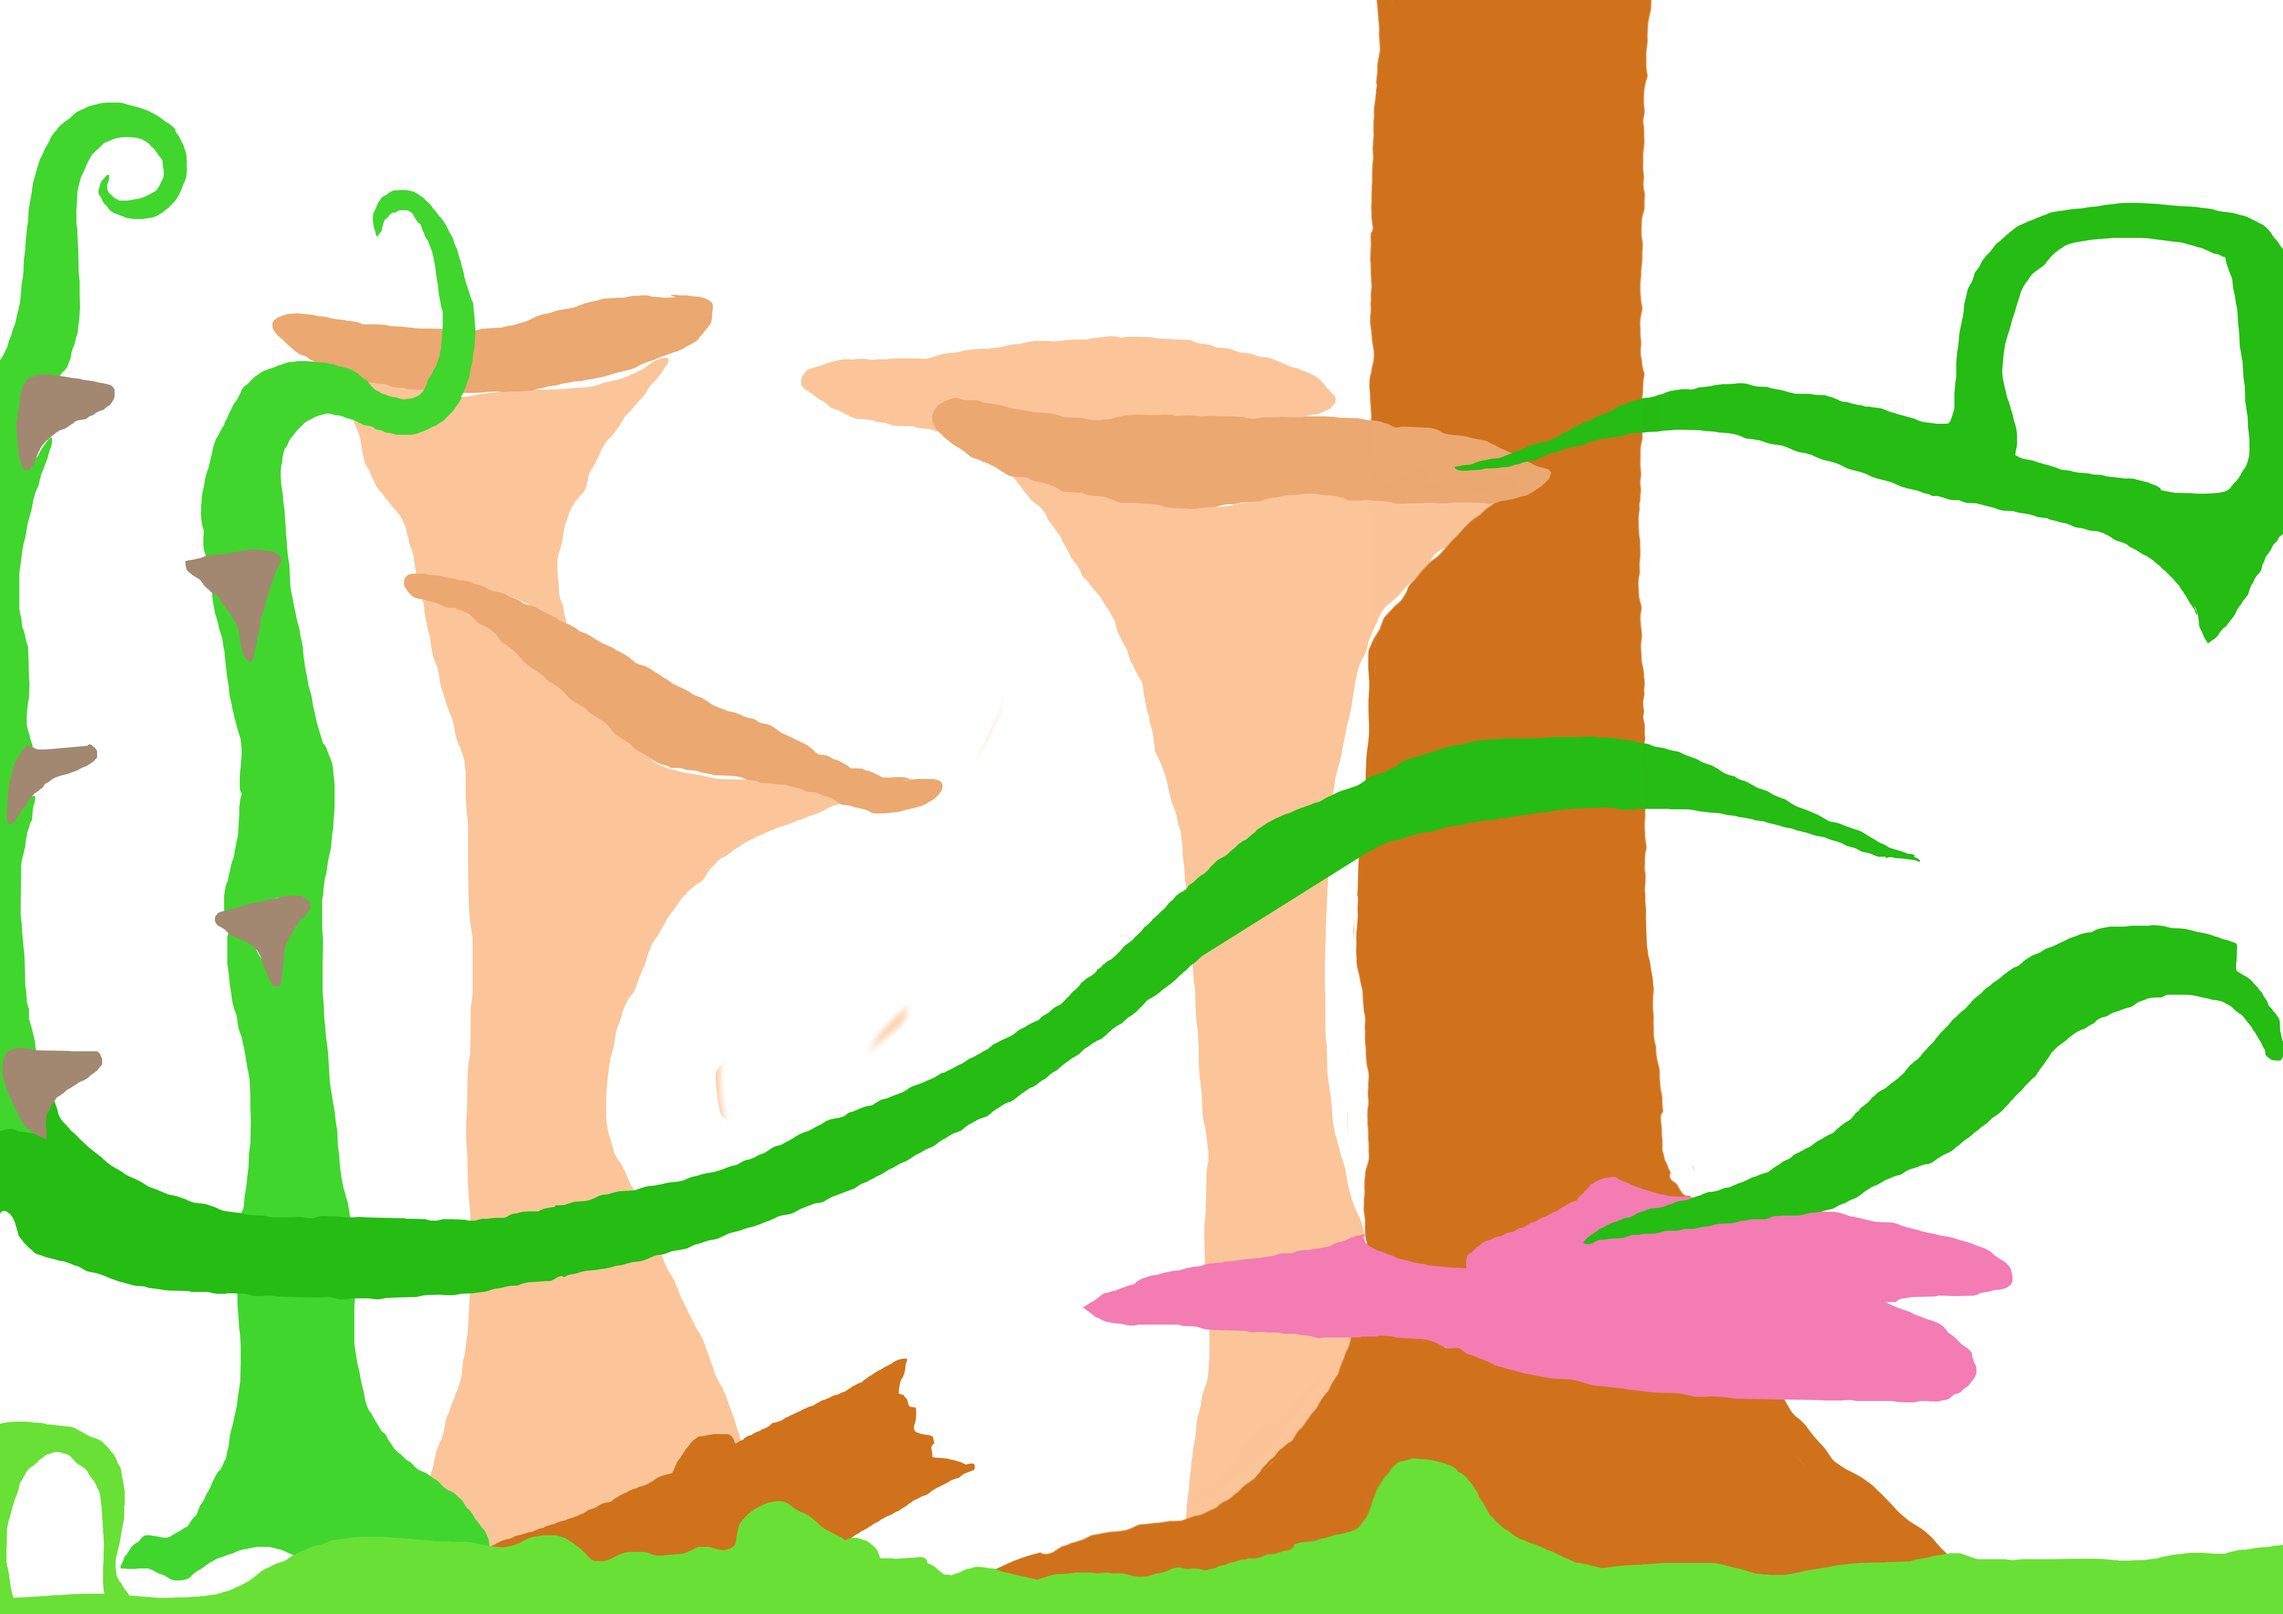
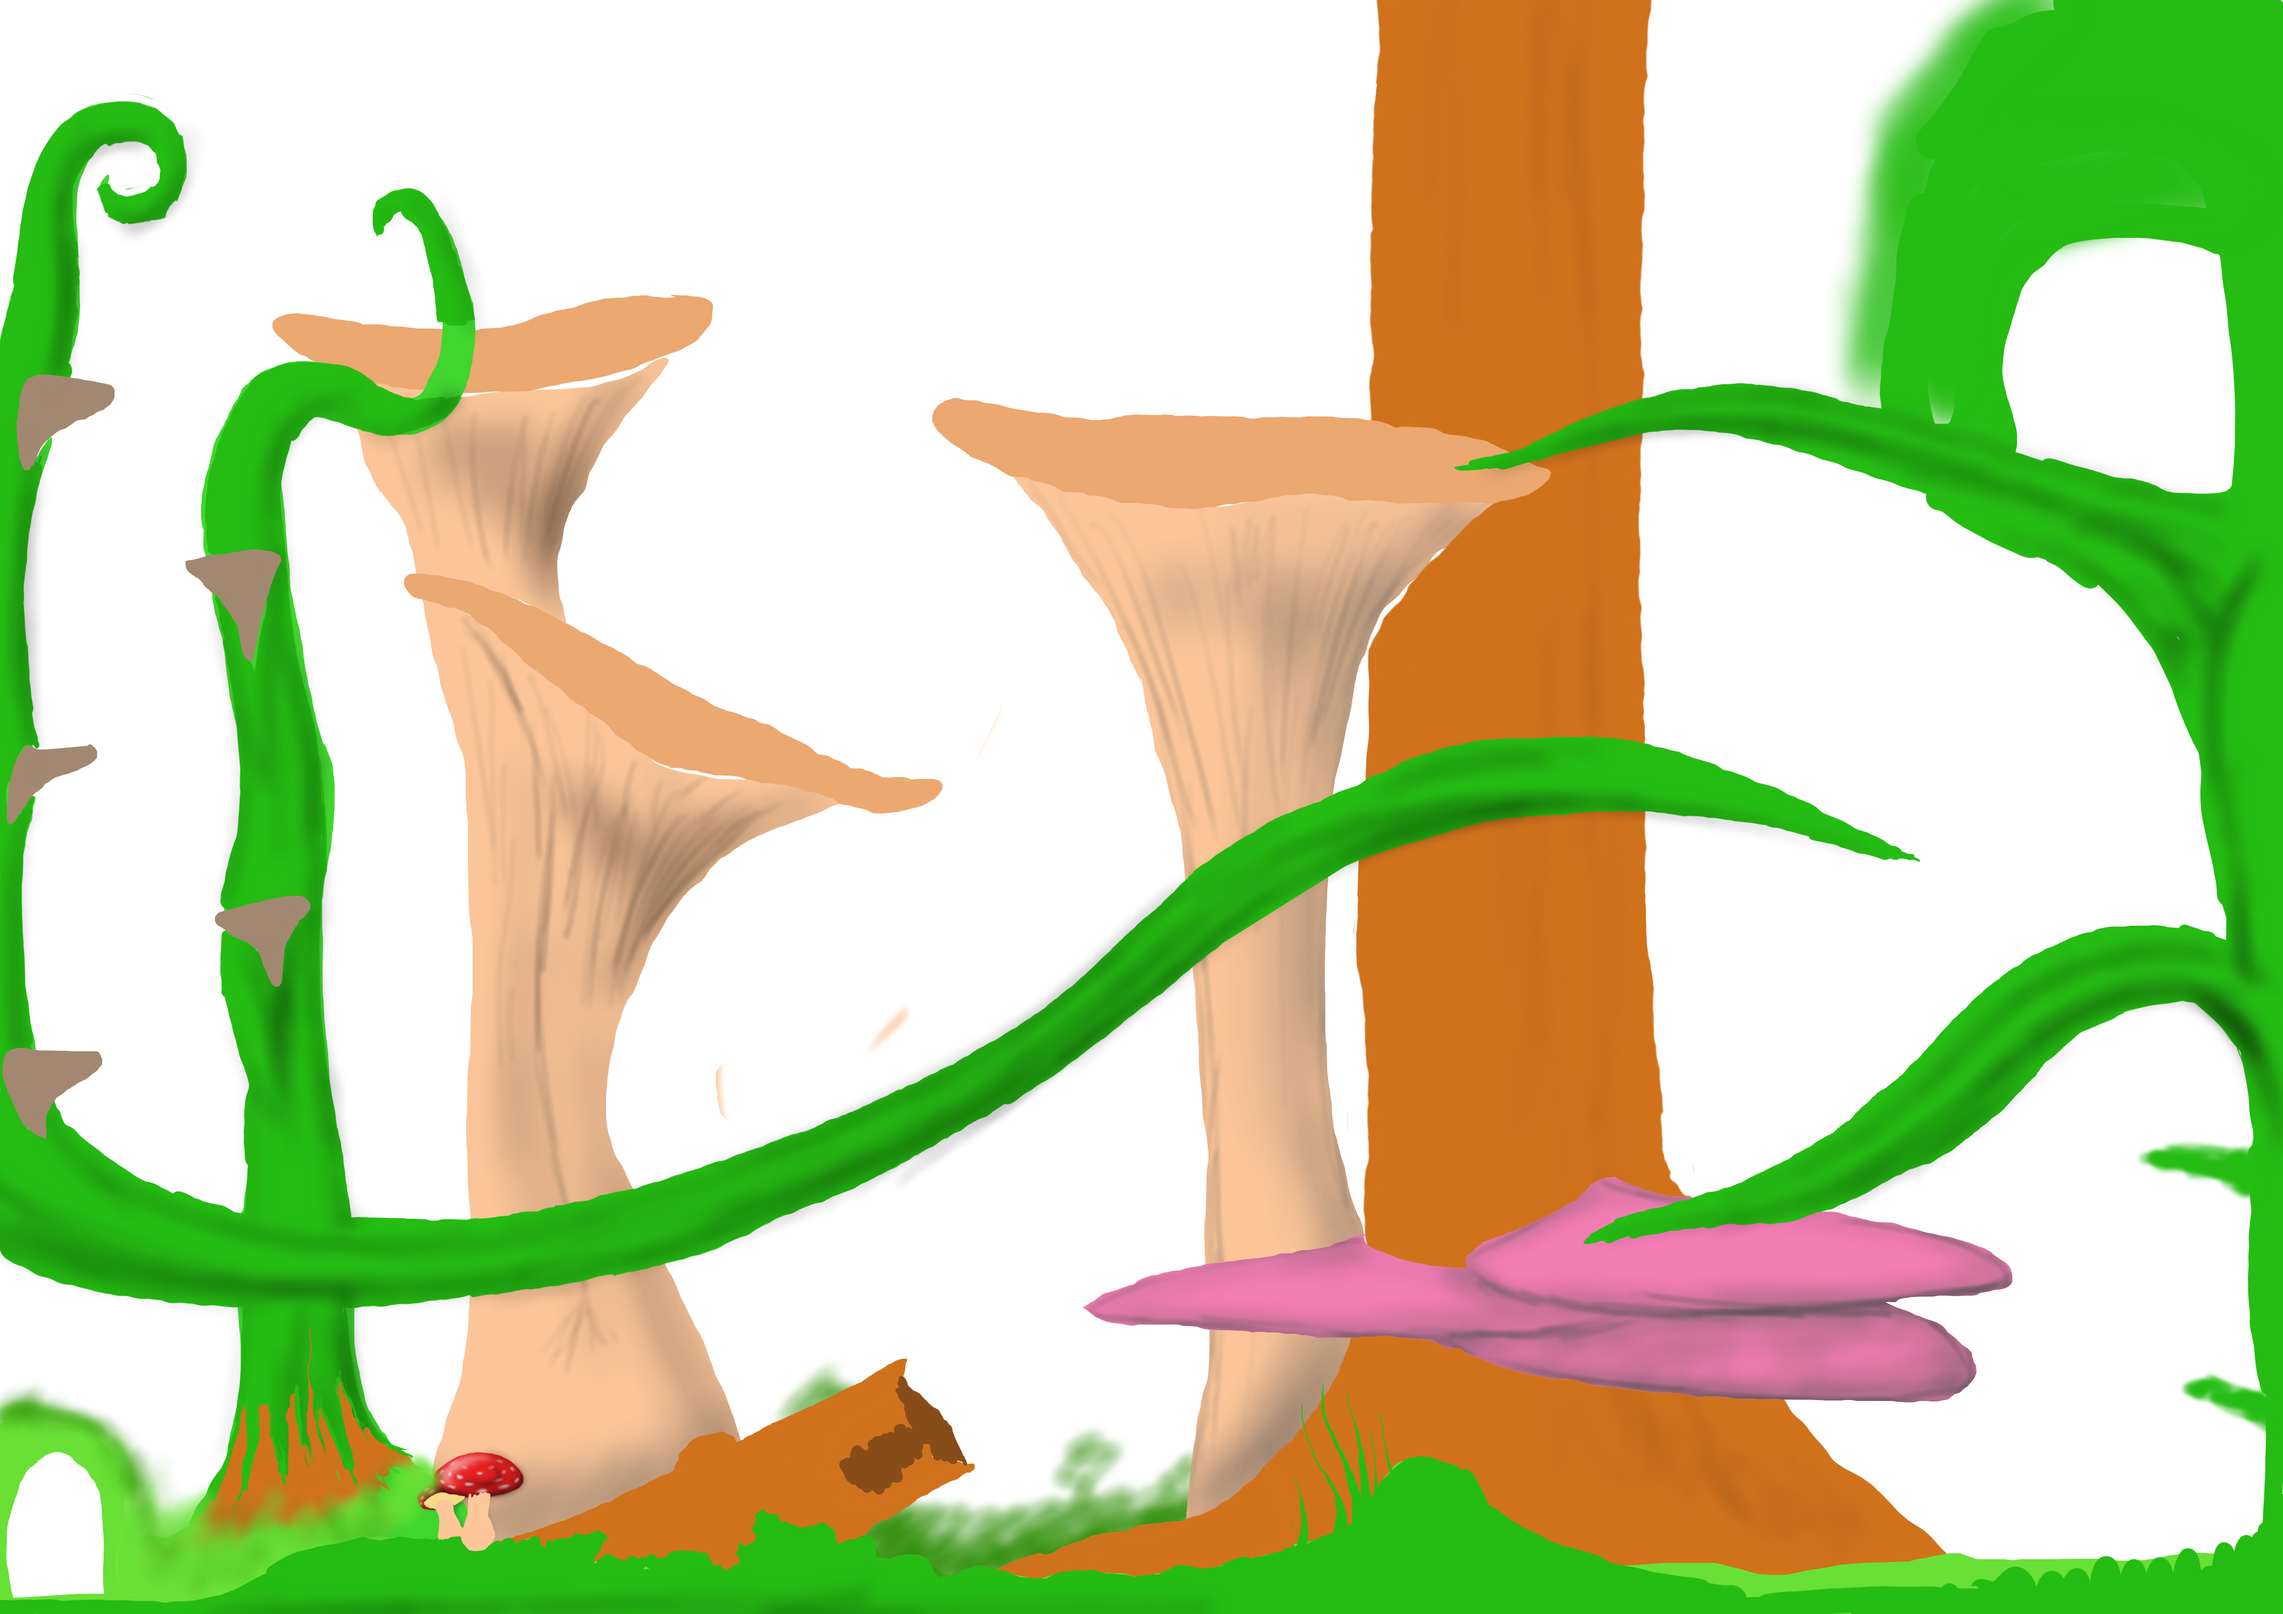
forest gfx updated

diff --git a/forestlevel.py b/forestlevel.py
@@ -98,7 +98,7 @@ def start_game_forest(run, score):
                 self.rect.topleft = self.pos
                 self.pos.y += speed
 
-        class Chest(pygame.sprite.Sprite):
+        class Chest(pygame.sprite.Sprite):  # gives player one helth
             def __init__(self, pos):
                 super().__init__()
                 self.index = 0
@@ -274,11 +274,11 @@ def start_game_forest(run, score):
         # images for World class
         collision_wall = World('gfx/forest-col-wall.png')
         collision_floor = World('gfx/forest-col-floor.png')
-        taakse = World(f'gfx/forest-bg.png')
-        taakse2 = World(f'gfx/forest-bg1.png')
-        taakse3 = World(f'gfx/forest-bg2.png')
+        #taakse = World(f'gfx/forest-bg.png')
+        taakse2 = World(f'gfx/forest-bg1-lines.png')
+        taakse3 = World(f'gfx/forest-bg2-lines.png')
         taakse4 = World(f'gfx/forest-bg-back.png')
-        eteen = World('gfx/forest-fg.png')
+        eteen = World('gfx/forest-fg-lines.png')
         light = World('gfx/forest-light.png')
 
         # adding water droplets to be collected
@@ -333,7 +333,7 @@ def start_game_forest(run, score):
             door_group.add(door)
 
         # enemies_soft take one health from player
-        # enemies_hard kill from single hit (not implemented yet)
+        # enemies_hard kill (or take 3 health?) from single hit
         enemies_soft = []
         enemies_soft.append(Enemy_soft(
             (2189, -292), 'gfx/forest-enemy-soft.png', (gw*0.95, gh*0.95)))
@@ -361,12 +361,12 @@ def start_game_forest(run, score):
         sprite_group_back.add(taakse4)
         sprite_group_back.add(taakse3)
         sprite_group.add(taakse2)
-        sprite_group.add(taakse)
+        # sprite_group.add(taakse)
         sprite_group2 = pygame.sprite.Group()
         sprite_group2.add(light)
         sprite_group2.add(eteen)
 
-        world_list = [light, eteen, taakse, taakse2, taakse3, taakse4,
+        world_list = [light, eteen, taakse2, taakse3, taakse4,
                       collision_wall, collision_floor]
         for point in points:
             world_list.append(point)
